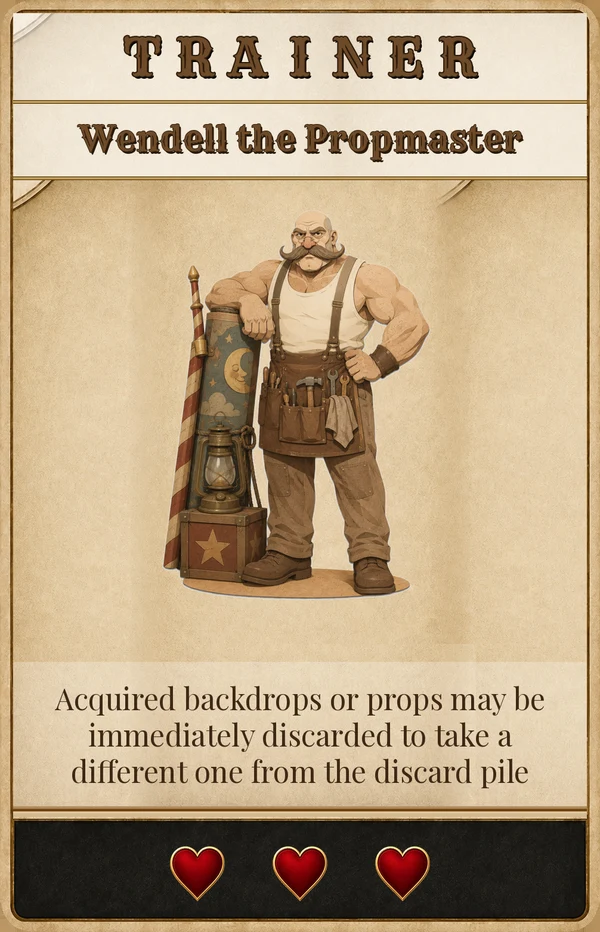
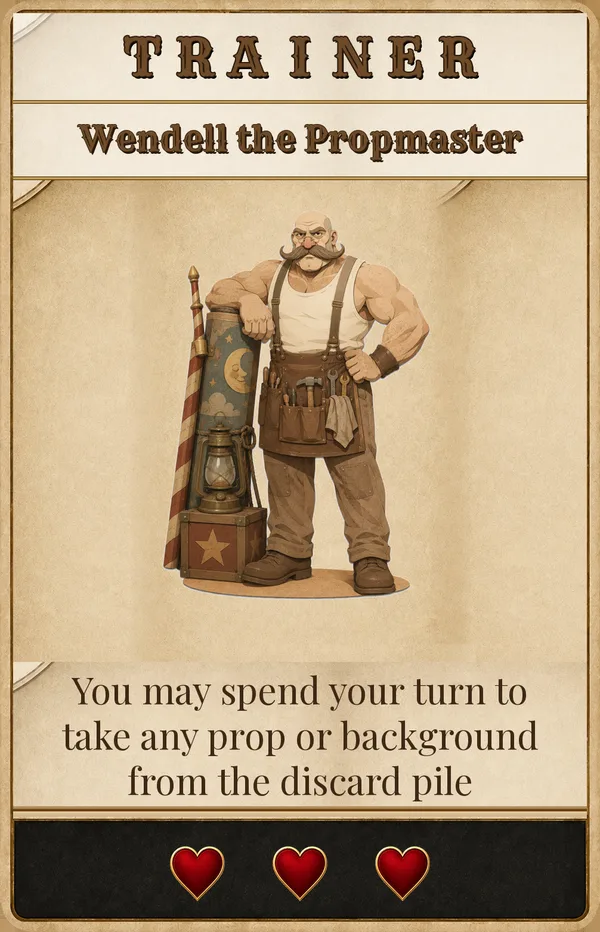
Fix draft-order coin tiebreak to use total coins; redesign Wendell the Propmaster
- assignDraftOrder tie-break was comparing roundCoins (coins earned this
  round) instead of each player's total/career coin stash, inconsistent with
  assignTrophy (which already correctly used total coins). Now both use the
  same total-coins basis: more coins currently owned = worse draft pick on a
  stars tie, mirroring the Trophy tie-break direction. Exported
  assignDraftOrder for direct unit testing, and added a dedicated test
  (assignTrophy's existing tie-break behavior was already correct -
  verified, no code change needed there).

- Redesigned Wendell the Propmaster from a post-acquire discard-and-swap
  reaction into a proactive whole-turn action: 'You may spend your turn to
  take any prop or background from the discard pile.' New wendellTakeDiscard
  engine action (gated like Jonas/Tomasso: active Trainer + turn not yet
  spent), placed through the normal acquireCard/placement pipeline (natural
  slot, or bump-to-reserve/send-to-reserve choice if occupied), always
  entering play with hearts full. Removed the old offerPostAcquireDiscard
  'wendell' branch and the wendellSwap pending kind from engine.js and
  bot.js. Added client UI: a turn-bar button + discard-pile card picker
  (mirrors the Jonas Quickfinger discard-picker pattern), removed the old
  wendellSwap prompt UI. Updated card_database.json ability text and
  re-rendered the Wendell card art (print master PNG + app webp) in place,
  preserving the existing illustration and 3-heart footer.
[…]

Changed region(s): [[0.0, 0.6845, 0.9, 0.8712], [0.93, 0.6845, 0.96, 0.7157]]

diff --git a/engine/engine.js b/engine/engine.js
@@ -608,8 +608,8 @@ function acquireCard(state, seat, cardId, chosenSlot) {
 
 // Place a freshly-acquired (drafted/bought/drawn) card, then offer any
 // "acquired cards may be immediately discarded to..." Trainer reactions that
-// apply to it (Professor Stainglass / Wendell the Propmaster). Not used for
-// refills or rearranges — only genuine new acquisitions.
+// apply to it (Professor Stainglass). Not used for refills or rearranges —
+// only genuine new acquisitions.
 function placeAcquiredCard(state, seat, cardId, slot) {
   placeInSlot(state, seat, cardId, slot);
   offerPostAcquireDiscard(state, seat, cardId);
@@ -619,10 +619,6 @@ function offerPostAcquireDiscard(state, seat, cardId) {
   const c = card(cardId);
   const choices = [];
   if (trainerActive(state, seat, TRAINERS.STAINGLASS)) choices.push('stainglass');
-  if ((c.cardType === 'backdrop' || c.cardType === 'prop') && trainerActive(state, seat, TRAINERS.WENDELL)) {
-    const altAvailable = state.discard.some((id) => id !== cardId && card(id).cardType === c.cardType);
-    if (altAvailable) choices.push('wendell');
-  }
   if (choices.length === 0) return;
   pushPending(state, 'postAcquireDiscard', seat, { cardId, cardName: c.name, cardType: c.cardType, choices });
 }
@@ -952,13 +948,15 @@ export function assignTrophy(state) {
 }
 
 // Fewest stars this round gets stand 1 (goes first next round). Ties: fewer
-// coins this round -> better stand; then fewer trophies; then a roll-off.
-function assignDraftOrder(state) {
+// TOTAL (career) coins currently owned -> better stand (i.e. more coins owned
+// is the worse draft pick, mirroring assignTrophy's tie-break direction);
+// then fewer trophies; then a roll-off.
+export function assignDraftOrder(state) {
   const tiebreak = new Map(state.players.map((p) => [p.seat, randInt(state, 1000)]));
   const ranked = [...state.players].sort(
     (a, b) =>
       a.roundStars - b.roundStars ||
-      a.roundCoins - b.roundCoins ||
+      a.coins - b.coins ||
       a.trophies - b.trophies ||
       tiebreak.get(a.seat) - tiebreak.get(b.seat)
   );
@@ -1206,6 +1204,31 @@ export function applyAction(state, action) {
       state.turn.done = true;
       break;
     }
+    // Wendell the Propmaster: spend your whole turn to take any Prop or
+    // Backdrop card, your choice, straight out of the discard pile. Placed
+    // exactly like any other acquisition (natural slot, or the usual
+    // bump-to-reserve / send-to-reserve choice if that slot is already
+    // occupied) — and since every Prop/Backdrop's printed starting-heart
+    // value already equals its max, it always enters play with hearts full.
+    case 'wendellTakeDiscard': {
+      requireTurn(state, seat);
+      if (state.turn.mainDone) throw new Error('You have already acted this turn.');
+      if (!trainerActive(state, seat, TRAINERS.WENDELL)) throw new Error('Wendell the Propmaster is not your active Trainer.');
+      const cardId = action.cardId;
+      const idx = state.discard.indexOf(cardId);
+      if (idx === -1) throw new Error('That card is not in the discard pile.');
+      const c = card(cardId);
+      if (c.cardType !== 'prop' && c.cardType !== 'backdrop') {
+        throw new Error('Wendell the Propmaster can only take a Prop or Backdrop from the discard pile.');
+      }
+      const p = state.players[seat];
+      state.discard.splice(idx, 1);
+      log(state, `${p.name} spends the turn with Wendell the Propmaster — takes ${c.name} from the discard pile.`);
+      acquireCard(state, seat, cardId, action.slot ?? null);
+      state.turn.mainDone = true;
+      state.turn.done = true;
+      break;
+    }
     // The Vanishing Valentino: to start your turn, you may end the draft
     // immediately (discarding whatever remains in the draft row) without
     // spending your turn. Unlimited uses while active.
@@ -1370,11 +1393,12 @@ function resolvePendingItem(state, item, action) {
       placeAcquiredCard(state, seat, it.cardId, slot);
       break;
     }
-    // Professor Stainglass / Wendell the Propmaster: right after acquiring a
-    // matching card, its owner may immediately discard it for that Trainer's
-    // stated effect instead of keeping it. See offerPostAcquireDiscard.
-    // (Jonas Quickfinger has never been part of this prompt — see the
-    // separate 'jonasDiscard' turn action instead.)
+    // Professor Stainglass: right after acquiring a matching card, its
+    // owner may immediately discard it for that Trainer's stated effect
+    // instead of keeping it. See offerPostAcquireDiscard. (Jonas Quickfinger
+    // has never been part of this prompt — see the separate 'jonasDiscard'
+    // turn action instead; Wendell the Propmaster is a whole-turn action
+    // now — see the 'wendellTakeDiscard' turn action instead.)
     case 'postAcquireDiscard': {
       const choice = action.choice;
       if (!item.data.choices.includes(choice) && choice !== 'keep') throw new Error('Invalid choice.');
@@ -1386,24 +1410,7 @@ function resolvePendingItem(state, item, action) {
         const drawn = draw(state, 1);
         p.reserve.push(...drawn);
         log(state, `${p.name} discards ${cardName} (Professor Stainglass) to draw ${drawn.length ? card(drawn[0]).name : 'nothing — the deck is empty'}.`);
-      } else if (choice === 'wendell') {
-        const slot = p.slots.indexOf(cardId);
-        const cType = card(cardId).cardType;
-        discardOwnedCard(state, seat, cardId);
-        const options = state.discard.filter((id) => card(id).cardType === cType);
-        log(state, `${p.name} discards ${cardName} (Wendell the Propmaster) to take a different one from the discard pile.`);
-        pushPending(state, 'wendellSwap', seat, { slot, cardType: cType, options });
       }
-      break;
-    }
-    case 'wendellSwap': {
-      const cardId = action.cardId;
-      if (!item.data.options.includes(cardId)) throw new Error('That card is not available to swap in.');
-      removePending(state, item.id);
-      const idx = state.discard.indexOf(cardId);
-      if (idx === -1) throw new Error('That card is no longer in the discard pile.');
-      state.discard.splice(idx, 1);
-      placeInSlot(state, seat, cardId, item.data.slot);
       break;
     }
     case 'heartAssign': {

diff --git a/test/rules.test.js b/test/rules.test.js
@@ -19,6 +19,7 @@ import {
   allowedSlots,
   seatWithStand,
   assignTrophy,
+  assignDraftOrder,
   lockCollectionDie,
   lockTomatoRoll,
   TRAINERS,
@@ -1207,6 +1208,33 @@ test('Trophy ties: most TOTAL (career) coins among the tied wins it; still tied 
   assert.equal(z.trophies, 0);
 });
 
+test('Draft order ties: fewest round stars goes first; tied stars broken by fewest TOTAL (career) coins, not round coins', () => {
+  const s = freshGame(3);
+  const [a, b, c] = s.players;
+  // a and b are tied on round stars (the lowest) — a should out-rank b for
+  // stand 1 because a owns fewer TOTAL coins right now, even though b
+  // earned fewer coins this particular round (a red herring, same trap as
+  // the Trophy tie-break test above). c has more round stars so finishes last.
+  a.roundStars = 2; a.coins = 3; a.roundCoins = 50;
+  b.roundStars = 2; b.coins = 9; b.roundCoins = 0;
+  c.roundStars = 6; c.coins = 0;
+  assignDraftOrder(s);
+  assert.equal(a.stand, 1, 'fewer total coins currently owned -> better (earlier) stand on a stars tie');
+  assert.equal(b.stand, 2, 'more total coins currently owned is the worse draft pick on a stars tie');
+  assert.equal(c.stand, 3, 'most round stars -> last regardless of coins');
+
+  // Tied on both stars and total coins -> trophies is the next tiebreak.
+  const s2 = freshGame(3);
+  const [x, y, z] = s2.players;
+  x.roundStars = 1; x.coins = 5; x.trophies = 2;
+  y.roundStars = 1; y.coins = 5; y.trophies = 0;
+  z.roundStars = 4; z.coins = 5;
+  assignDraftOrder(s2);
+  assert.equal(y.stand, 1, 'fewer trophies breaks a stars-and-coins tie');
+  assert.equal(x.stand, 2);
+  assert.equal(z.stand, 3);
+});
+
 test('A card survives the hit that brings it to 0 hearts, then discards on the very next hit', () => {
   const s = freshGame(2);
   const seat = currentSeat(s);
@@ -1512,24 +1540,49 @@ test('Jonas Quickfinger: requires Jonas active and a genuine active Performer ta
   );
 });
 
-test('Wendell the Propmaster: discard an acquired backdrop/prop for a different one from the discard pile', () => {
+test('Wendell the Propmaster: spend the turn to take any Prop or Backdrop from the discard pile, full-hearted', () => {
   const s = freshGame(2);
   const seat = currentSeat(s);
   const p = s.players[seat];
   p.slots[7] = TRAINERS.WENDELL;
-  s.discard.push('Prop-Powerful');
-  s.draftRow[0] = 'Prop-Graceful';
-  applyAction(s, { type: 'acquireDraft', seat, cardId: 'Prop-Graceful' });
-  assert.equal(p.slots[6], 'Prop-Graceful');
-  const offer = s.pending.find((x) => x.kind === 'postAcquireDiscard');
-  assert.ok(offer.data.choices.includes('wendell'));
-  applyAction(s, { type: 'resolvePending', seat, pendingId: offer.id, choice: 'wendell' });
-  const swap = s.pending.find((x) => x.kind === 'wendellSwap');
-  assert.ok(swap);
-  assert.ok(swap.data.options.includes('Prop-Powerful'));
-  applyAction(s, { type: 'resolvePending', seat, pendingId: swap.id, cardId: 'Prop-Powerful' });
-  assert.equal(p.slots[6], 'Prop-Powerful');
-  assert.ok(s.discard.includes('Prop-Graceful'));
+  s.discard.push('Prop-Powerful', 'Backdrop-Graceful', 'Resource-1-Coin-1');
+
+  // Only a Prop or Backdrop may be taken this way — not just anything sitting
+  // in the discard pile.
+  assert.throws(
+    () => applyAction(s, { type: 'wendellTakeDiscard', seat, cardId: 'Resource-1-Coin-1' }),
+    /Prop or Backdrop/
+  );
+  // Not in the discard pile at all.
+  assert.throws(() => applyAction(s, { type: 'wendellTakeDiscard', seat, cardId: 'Prop-Graceful' }), /discard pile/);
+
+  applyAction(s, { type: 'wendellTakeDiscard', seat, cardId: 'Prop-Powerful' });
+  assert.equal(p.slots[6], 'Prop-Powerful', 'Prop lands in its natural slot');
+  assert.equal(s.hearts['Prop-Powerful'], maxHearts(s, seat, 'Prop-Powerful'), 'enters play with hearts full');
+  assert.ok(!s.discard.includes('Prop-Powerful'), 'removed from the discard pile');
+  assert.notEqual(s.turn?.seat, seat, 'taking a card this way spent the whole turn');
+});
+
+test('Wendell the Propmaster: gated on being active, on going before the main action, and taking an occupied slot bumps to reserve', () => {
+  const s = freshGame(2);
+  const seat = currentSeat(s);
+  const p = s.players[seat];
+  s.discard.push('Backdrop-Graceful');
+  // Not active yet — no Wendell in play.
+  assert.throws(() => applyAction(s, { type: 'wendellTakeDiscard', seat, cardId: 'Backdrop-Graceful' }), /active Trainer/);
+
+  p.slots[7] = TRAINERS.WENDELL;
+  p.slots[5] = 'Backdrop-Powerful';
+  s.hearts['Backdrop-Powerful'] = maxHearts(s, seat, 'Backdrop-Powerful');
+  applyAction(s, { type: 'wendellTakeDiscard', seat, cardId: 'Backdrop-Graceful' });
+  // The natural slot is already occupied, so — same as any other acquisition
+  // — it's a genuine placement choice, not an auto-bump.
+  const placement = s.pending.find((x) => x.kind === 'placement');
+  assert.ok(placement, 'occupied natural slot offers a placement choice, like any other acquisition');
+  assert.ok(placement.data.allowedSlots.includes(5));
+  applyAction(s, { type: 'resolvePending', seat, pendingId: placement.id, slot: 5 });
+  assert.equal(p.slots[5], 'Backdrop-Graceful', 'the taken Backdrop fills its natural slot');
+  assert.ok(p.reserve.includes('Backdrop-Powerful'), 'the bumped occupant moves to reserve, not discard');
 });
 
 test('Celestine the Stargazer: to start your turn, buy up to 3 stars for 3 coins each', () => {

diff --git a/client/src/main.js b/client/src/main.js
@@ -298,6 +298,7 @@ function renderGame() {
           ${draftRowHtml(s, p, pending)}
           ${marketHtml(s, p)}
           ${turnBarHtml(s, p)}
+          ${wendellDiscardHtml(s)}
           ${pending ? promptHtml(s, p, pending) : ''}
           ${waitingNoteHtml(s, p, pending)}
         </div>
@@ -406,6 +407,19 @@ function draftRowHtml(s, p, pending) {
   </div>`;
 }
 
+// Wendell the Propmaster: the discard-pile cards this seat may take (Props
+// and Backdrops only), shown only while ui.mode === 'wendellTake'.
+function wendellDiscardHtml(s) {
+  if (ui.mode !== 'wendellTake') return '';
+  const options = s.discard.filter((id) => card(id).cardType === 'prop' || card(id).cardType === 'backdrop');
+  return `<div class="zone">
+    <h3>Discard pile <span class="hint">(Wendell the Propmaster — click one to take it)</span></h3>
+    <div class="cardrow clickable" id="wendellDiscardRow">
+      ${options.map((id) => cardHtml(id, { size: 'md' })).join('') || '<span class="hint">no eligible Props or Backdrops</span>'}
+    </div>
+  </div>`;
+}
+
 function marketHtml(s, p) {
   const canAct = isMyTurn() && !ui.mode;
   return `<div class="zone">
@@ -453,6 +467,9 @@ function turnBarHtml(s, p) {
   } else if (ui.mode === 'jonasDiscard') {
     buttons.push(`<span class="yourturn">Jonas Quickfinger: click one of your Performers below to discard it and take its resource × its power dots.</span>`);
     buttons.push(`<button id="cancelMode">Cancel</button>`);
+  } else if (ui.mode === 'wendellTake') {
+    buttons.push(`<span class="yourturn">Wendell the Propmaster: click a card below to take it from the discard pile.</span>`);
+    buttons.push(`<button id="cancelMode">Cancel</button>`);
   } else {
     if (!t.mainDone) {
       buttons.push(`<span class="yourturn">Your turn — click a draft card to take it, buy from the market, or:</span>`);
@@ -464,6 +481,10 @@ function turnBarHtml(s, p) {
       if (trainers.includes('Jonas-Quickfinger')) {
         const hasPerformer = p.slots.slice(0, 5).some(Boolean);
         buttons.push(`<button id="jonasBtn" ${hasPerformer ? '' : 'disabled'} title="${hasPerformer ? '' : 'You have no active Performers'}">Jonas Quickfinger: discard a Performer for resources (uses turn)</button>`);
+      }
+      if (trainers.includes('Wendell-the-Propmaster')) {
+        const hasOption = s.discard.some((id) => card(id).cardType === 'prop' || card(id).cardType === 'backdrop');
+        buttons.push(`<button id="wendellBtn" ${hasOption ? '' : 'disabled'} title="${hasOption ? '' : 'No Props or Backdrops are in the discard pile'}">Wendell the Propmaster: take a Prop/Backdrop from discard (uses turn)</button>`);
       }
       if (trainers.includes('The-Vanishing-Valentino')) {
         buttons.push(`<button id="valentinoBtn">The Vanishing Valentino: end the draft (free)</button>`);
@@ -551,7 +572,6 @@ function promptHtml(s, p, item) {
     case 'postAcquireDiscard': {
       const labels = {
         stainglass: 'Discard it (Professor Stainglass) — draw 1 card',
-        wendell: 'Discard it (Wendell the Propmaster) — take a different one from the discard pile',
       };
       return promptBox(`
         <div>You just acquired <b>${esc(item.data.cardName)}</b> — keep it, or discard it right now for a Trainer effect?</div>
@@ -559,13 +579,6 @@ function promptHtml(s, p, item) {
           ${item.data.choices.map((ch) => `<button data-postacquire="${esc(ch)}">${labels[ch]}</button>`).join('')}
         </div>
         <button id="postAcquireKeep" class="primary">Keep it</button>`);
-    }
-    case 'wendellSwap': {
-      return promptBox(`
-        <div>Wendell the Propmaster: take a different one from the discard pile.</div>
-        <div class="assignrow">
-          ${item.data.options.map((id) => `<div class="pickable" data-wendelloption="${esc(id)}">${cardHtml(id, { size: 'sm' })}</div>`).join('')}
-        </div>`);
     }
     case 'diceResultsReview': {
       return promptBox(`
@@ -790,6 +803,16 @@ function wireGameEvents(s, p, pending) {
     ui.mode = 'jonasDiscard';
     render();
   });
+  document.getElementById('wendellBtn')?.addEventListener('click', () => {
+    ui.mode = 'wendellTake';
+    render();
+  });
+  document.getElementById('wendellDiscardRow')?.addEventListener('click', (e) => {
+    const el = e.target.closest('[data-cardid]');
+    if (!el) return;
+    ui.mode = null;
+    send({ type: 'wendellTakeDiscard', cardId: el.dataset.cardid });
+  });
   document.getElementById('valentinoBtn')?.addEventListener('click', () => send({ type: 'valentinoEndDraft' }));
   app.querySelectorAll('[data-celestine]').forEach((b) =>
     b.addEventListener('click', () => send({ type: 'celestineBuyStars', count: +b.dataset.celestine }))
@@ -877,9 +900,6 @@ function wireGameEvents(s, p, pending) {
   );
   app.querySelectorAll('[data-postacquire]').forEach((b) =>
     b.addEventListener('click', () => send({ type: 'resolvePending', pendingId: pending.id, choice: b.dataset.postacquire }))
-  );
-  app.querySelectorAll('[data-wendelloption]').forEach((el) =>
-    el.addEventListener('click', () => send({ type: 'resolvePending', pendingId: pending.id, cardId: el.dataset.wendelloption }))
   );
   document.getElementById('auricGainConfirm')?.addEventListener('click', () => {
     const convertCoinsToHearts = !!document.getElementById('auricConvertCoins')?.checked;

diff --git a/engine/bot.js b/engine/bot.js
@@ -84,19 +84,15 @@ function resolvePrompt(state, seat, item) {
     }
     case 'auricGainChoice':
       return { ...base, ...chooseAuricConversion(state, seat, item.data) };
-    // Professor Stainglass / Wendell the Propmaster: the bot never
-    // proactively discards a just-acquired card for these (keeps AI behavior
-    // simple and non-regressive — the old engine's bot never used the
-    // equivalent discard abilities either). Jonas Quickfinger was never part
-    // of this prompt — see the separate 'jonasDiscard' turn action, which
-    // the bot also never proactively uses, same conservative policy.
+    // Professor Stainglass: the bot never proactively discards a
+    // just-acquired card for this (keeps AI behavior simple and
+    // non-regressive — the old engine's bot never used the equivalent
+    // discard ability either). Jonas Quickfinger and Wendell the Propmaster
+    // are never part of this prompt — see the separate 'jonasDiscard' and
+    // 'wendellTakeDiscard' turn actions, which the bot also never
+    // proactively uses, same conservative policy.
     case 'postAcquireDiscard':
       return { ...base, choice: 'keep' };
-    // Defensive fallback — unreachable in practice since the bot always
-    // keeps rather than choosing 'wendell' above, but resolved sensibly
-    // rather than left to throw if that ever changes.
-    case 'wendellSwap':
-      return { ...base, cardId: item.data.options[0] ?? null };
     // Post-dice-roll review: nothing for the bot to decide — just
     // acknowledge and let the round continue. Only meaningful for a human
     // watching the results, so this resolves instantly.

diff --git a/DESIGN_BRIEF.md b/DESIGN_BRIEF.md
@@ -52,7 +52,7 @@ Build the most legendary troupe of performers by earning Trophies. First to the 
    - **The instant the draft ends, a pre-roll Press Pass window opens** — see "Re-roll cards" below. Every player still holding at least one Press Pass card gets a pending decision: spend any number of them (a proactive click on the card, like a Favor, never forced) for private rolls of their own, then confirm they're ready. The round's 5 shared Collection Dice do not start rolling until every such player has closed their window. Each spent card immediately rolls that many *private* Collection Die(s) — resolved exactly like a normal Collection Die, but crediting only the spender — in addition to, and independent of, the round's 5 shared dice below.
    - **Roll all 5 shared Collection Dice, one at a time, revealed live.** Each die is rolled, shown on screen, and left visible before the next one rolls — building up a row of 5 — so spectators can actually watch the round unfold; a live table of each player's resources earned so far this round updates as each die locks in. For each die result (a letter A-H) once locked, every player who has a Performer on their mat with that Letter collects: if that performer's printed resource is Star or Coin, place the token on the player's central token pool (not on the card); if it's a Heart, immediately assign it to any of that player's starter or reserve cards up to that card's max heart capacity.
    - **Assign the Trophy:** whoever earned the most Stars this round takes a Trophy token. Tie → most Coins overall (each tied player's total/career coin count, not just coins earned this round) wins it. Still tied → all tied players take a Trophy. The trophy winner(s) must then remove 1 heart from each of their "starters" (their 8 mat-slot cards — Performers, Backdrop, Prop, and Trainer — see "Rules the written doc left open" for why this includes non-Performer slots). Do not refill empty slots yet.
-   - **Assign new Draft Order:** fewest Stars this round → stand "1" (goes first next round). Next fewest → stand "2", etc. Tie → fewer Coins gets the better (lower) stand. Still tied → fewer total Trophies gets the better stand. Still tied → roll-off.
+   - **Assign new Draft Order:** fewest Stars this round → stand "1" (goes first next round). Next fewest → stand "2", etc. Tie → fewer Coins currently owned (each tied player's total/career coin count, not just coins earned this round — same tie-break basis as the Trophy assignment above) gets the better (lower) stand; i.e. owning *more* coins right now is the worse draft pick on a stars tie. Still tied → fewer total Trophies gets the better stand. Still tied → roll-off.
    - **Roll Tomato dice, as one batch.** Roll a number of D8 Tomato dice equal to the current round number (round 1 = 1 die, round 2 = 2 dice, etc), capping at 8 dice from round 8 onward, all at once, and leave the whole batch visible before it locks. Between the roll and the lock, if the round's Mesmera the Veiled holder wants to, they may re-roll the entire batch once (see the Trainer table below). Once locked, for every rolled number 1-8, every player removes 1 heart from whatever currently occupies that slot number on their own mat. Every card also survives the hit that brings it to 0 printed hearts (per the owner's ruling) — reaching 0 hearts does not, by itself, discard a card. Only the *next* hit taken while a card is already at 0 hearts actually discards it. So a 1-heart card takes exactly 2 hits total to leave the stage, and a card that starts at 0 printed hearts discards on its very first hit. This applies to both Tomato-die hits and trophy-winner heart removal above.
    - **Review pause:** once both the 5 shared Collection Dice and the Tomato batch have fully resolved, every player gets a blocking prompt to look over the round's results (the earned-resources table, hearts lost, etc.) before continuing — a "Continue" click, required from every seat, with no other effect on the game (bots resolve theirs instantly; it only meaningfully pauses for a human).
    - **Refill:** any now-empty mat slots (from tomato hits or trophy heart removal that emptied a card) are refilled from that player's reserve, if they have a suitable card there.
@@ -98,7 +98,7 @@ A later ruling changed slots 6 and 7 from single-purpose (Backdrop-only / Prop-o
 | Delphine Silvertongue | Every Press Pass you spend rolls double its printed number of private Collection Dice (e.g. Press Pass 3 rolls 6 instead of 3). |
 | Amara the Reliquary | To start your turn, you may move a heart from one of your cards (mat or reserve) to another, capped by the destination's printed heart capacity (`amaraMoveHeart`, once per turn, before your main action). |
 | Jonas Quickfinger | **Redesigned again.** "You may spend your turn to discard a performer to take their resource times their power dot amount." No longer tied to acquisition at all (the earlier "automatic bonus on acquiring a Performer" version is gone) — now a proactive, turn-consuming main action (`jonasDiscard`): pick one of your own active Performers (mat slots 0-4 only, not reserve), discard it, and take that many units of its printed resource, where "that many" is the discarded Performer's power dots (1-4). A straight cash-in — no Backdrop/Prop boost, not a Collection Die roll. |
-| Wendell the Propmaster | Acquired Backdrops/Props may be immediately discarded to take a *different* Backdrop or Prop of the same kind from the discard pile instead, into the same slot. |
+| Wendell the Propmaster | You may spend your turn to take any Prop or Backdrop card, your choice, straight out of the discard pile (`wendellTakeDiscard`, whole-turn action, before your main action). Placed exactly like any other acquisition — natural slot, or the usual bump-to-reserve/send-to-reserve choice if that slot is already occupied — and always enters play with hearts full. |
 | Celestine the Stargazer | To start your turn, you may buy up to 3 Stars for 3 coins each (`celestineBuyStars`, once per turn, before your main action). |
 | Bellacanto the Choirmistress | Your Singer-type Performers sitting in reserve *also* collect on a matching Collection Die roll, exactly as if they were on your board (still letter-gated, same boost rules) — in addition to your board performers, not instead of them. |
 | Ezra the Sleight-of-Hand | If you have at least one Illusionist-type Performer on your board, you receive the draft's final leftover card (the one that would normally just be discarded when the draft row drops to 1 card) into your reserve instead. |
